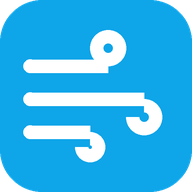
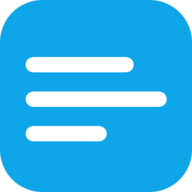
feat(ui): PWA-иконки, раздача SPA сервером, vitest в CI и make test
PNG-иконки манифеста (192/512/maskable) из фирменного знака ветра; FastAPI
монтирует ui/dist после роутеров (SPA-fallback: клиентские маршруты →
index.html, /api не перехватывается) — EB_UI_DIST настраивается, без
каталога сервис работает API-only. Тест раздачи; vitest добавлен в CI и
make test; смоук: один процесс отдаёт PWA и API на фейках.

Changed region(s): [[0.0938, 0.4688, 0.875, 0.7188], [0.125, 0.1562, 0.7188, 0.4062], [0.125, 0.625, 0.5625, 0.8438]]

diff --git a/server/src/easy_breezy/app.py b/server/src/easy_breezy/app.py
@@ -8,6 +8,10 @@ from contextlib import asynccontextmanager
 
 import structlog
 from fastapi import FastAPI
+from fastapi.staticfiles import StaticFiles
+from starlette.exceptions import HTTPException as StarletteHTTPException
+from starlette.responses import Response
+from starlette.types import Scope
 
 from easy_breezy import __version__
 from easy_breezy.api import ws
@@ -17,6 +21,18 @@ from easy_breezy.container import build_container
 from easy_breezy.logging import setup_logging
 
 log = structlog.get_logger(__name__)
+
+
+class SpaStaticFiles(StaticFiles):
+    """Статика PWA: неизвестные пути отдают index.html (client-side роутер)."""
+
+    async def get_response(self, path: str, scope: Scope) -> Response:
+        try:
+            return await super().get_response(path, scope)
+        except StarletteHTTPException as exc:
+            if exc.status_code == 404:
+                return await super().get_response("index.html", scope)
+            raise
 
 
 def create_app(settings: Settings | None = None) -> FastAPI:
@@ -54,4 +70,13 @@ def create_app(settings: Settings | None = None) -> FastAPI:
     app.include_router(commands.router)
     app.include_router(pairing.router)
     app.include_router(ws.router)
+
+    # статика — после роутеров: /api и /ws матчатся первыми
+    if (app_settings.ui_dist / "index.html").exists():
+        app.mount(
+            "/", SpaStaticFiles(directory=app_settings.ui_dist, html=True), name="ui"
+        )
+        log.info("ui_static_mounted", path=str(app_settings.ui_dist))
+    else:
+        log.info("ui_static_absent", path=str(app_settings.ui_dist))
     return app

diff --git a/server/tests/test_api.py b/server/tests/test_api.py
@@ -257,6 +257,31 @@ def test_device_crud_rooms(client_app: ClientAndApp) -> None:
     assert journal.status_code == 200
 
 
+def test_spa_static_with_fallback(tmp_path: Path) -> None:
+    """Собранный UI раздаётся сервером; клиентские маршруты → index.html."""
+    dist = tmp_path / "dist"
+    dist.mkdir()
+    (dist / "index.html").write_text("<html>EB SPA</html>", encoding="utf-8")
+    (dist / "app.js").write_text("console.log(1)", encoding="utf-8")
+
+    app = create_app(
+        Settings(
+            log_level="WARNING",
+            data_dir=tmp_path / "data",
+            fake_devices=0,
+            ui_dist=dist,
+        )
+    )
+    with TestClient(app) as client:
+        assert "EB SPA" in client.get("/").text
+        assert client.get("/app.js").text == "console.log(1)"
+        # клиентский маршрут SPA отдаёт index, а не 404
+        assert "EB SPA" in client.get("/devices").text
+        # API живёт своей жизнью и не перехватывается статикой
+        assert client.get("/api/system/health").status_code == 200
+        assert client.get("/api/devices").status_code == 401
+
+
 def test_pairing_wizard_flow(client_app: ClientAndApp) -> None:
     """Мастер сопряжения на фейках: скан → pair → устройство в реестре."""
     client, app = client_app

diff --git a/server/src/easy_breezy/config.py b/server/src/easy_breezy/config.py
@@ -28,6 +28,8 @@ class Settings(BaseSettings):
     """Каталог логов; ``None`` — только stdout (journald)."""
     data_dir: Path = Path("data")
     """Каталог данных (БД, бэкапы)."""
+    ui_dist: Path = Path("../ui/dist")
+    """Собранный UI (vite build); каталога нет — сервис работает API-only."""
     database_url: str | None = None
     """Явный URL БД; ``None`` — sqlite в ``data_dir/easy_breezy.db``."""
     fake_devices: int = 0